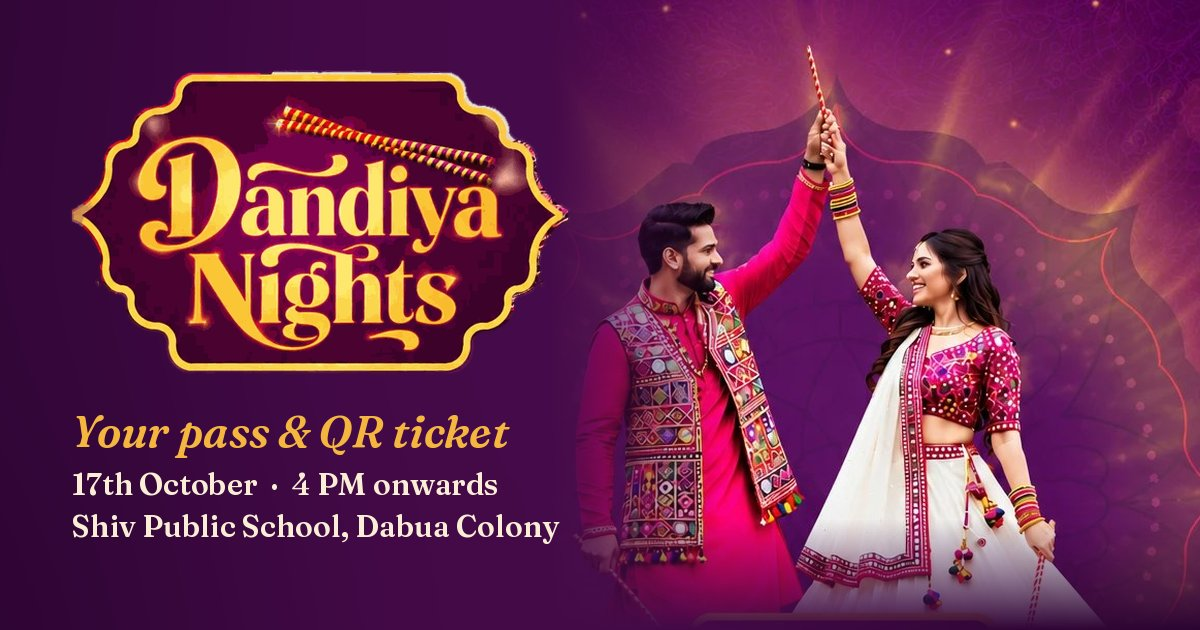
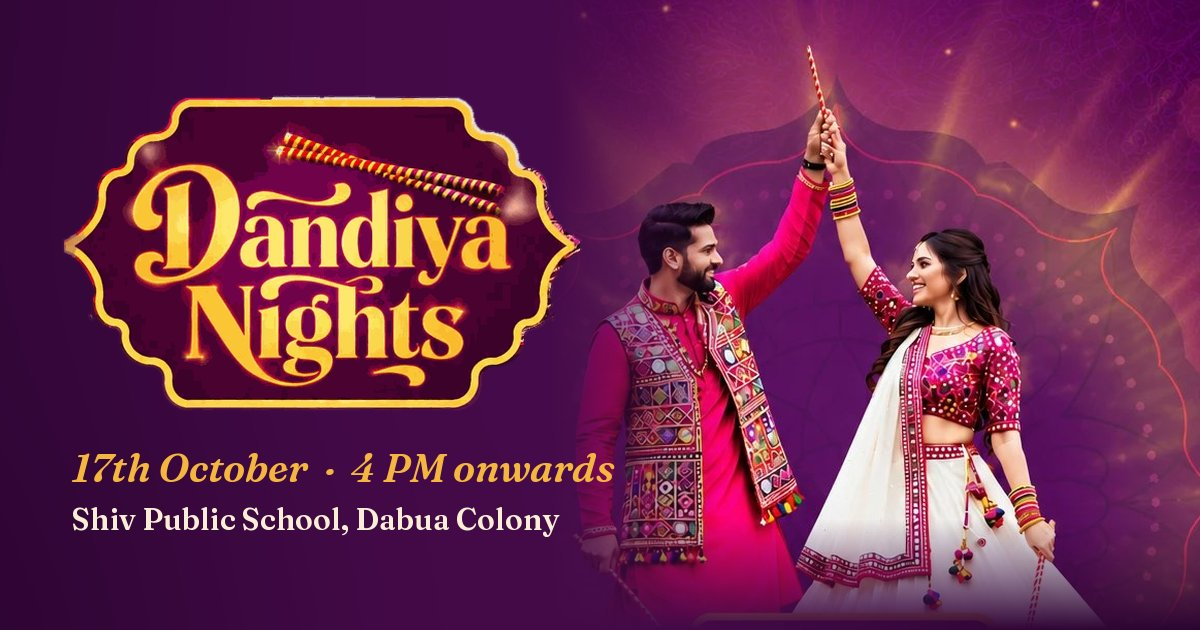
General link preview text (no pass/ticket wording)
og:title 'Dandiya Nights', description with date and venue only; default
preview image without 'Your pass & QR ticket'; WhatsApp link uses ?v=2.

Claude-Session: https://claude.ai/code/session_014oKpmPaWiJA2Ys3yn9gRho

Changed region(s): [[0.0308, 0.0905, 0.5242, 0.8746]]

diff --git a/public/index.html b/public/index.html
@@ -6,18 +6,18 @@
 <title>Dandiya Nights</title>
 <!-- Link preview (WhatsApp, Instagram, Facebook...). Crawlers do not run JS, so these are fixed text.
      The image is served by the admin site: the one uploaded in Admin > Event, else assets/og-image.jpg. -->
-<meta name="description" content="Book your passes and open your QR ticket. 17th October, 4 PM onwards, Shiv Public School, Dabua Colony.">
+<meta name="description" content="17th October, 4 PM onwards · Shiv Public School, Dabua Colony">
 <meta property="og:type" content="website">
 <meta property="og:site_name" content="Dandiya Nights">
-<meta property="og:title" content="Dandiya Nights · Your pass">
-<meta property="og:description" content="Open your QR ticket. 17th October, 4 PM onwards · Shiv Public School, Dabua Colony">
+<meta property="og:title" content="Dandiya Nights">
+<meta property="og:description" content="17th October, 4 PM onwards · Shiv Public School, Dabua Colony">
 <meta property="og:url" content="https://spsevent.vercel.app/">
-<meta property="og:image" content="https://spseventadmin.vercel.app/api/og-image?v=2">
-<meta property="og:image:secure_url" content="https://spseventadmin.vercel.app/api/og-image?v=2">
+<meta property="og:image" content="https://spseventadmin.vercel.app/api/og-image?v=3">
+<meta property="og:image:secure_url" content="https://spseventadmin.vercel.app/api/og-image?v=3">
 <meta property="og:image:type" content="image/jpeg">
 <meta property="og:image:width" content="1200">
 <meta property="og:image:height" content="630">
-<meta property="og:image:alt" content="Dandiya Nights: your pass and QR ticket">
+<meta property="og:image:alt" content="Dandiya Nights">
 <meta name="twitter:card" content="summary_large_image">
 <meta name="theme-color" content="#1f0823">
 <link rel="preconnect" href="https://fonts.googleapis.com">

diff --git a/admin/index.html b/admin/index.html
@@ -440,7 +440,7 @@ function waNumber(phone) {
 }
 function waLink(o, label) {
   var n = waNumber(o.phone); if (!n || !o.token) return '';
-  var s = A.settings || {}, link = PUBLIC_SITE + '/?pass=1#/order/' + o.token;   // ?pass=1: a fresh WhatsApp link preview (image card)
+  var s = A.settings || {}, link = PUBLIC_SITE + '/?v=2#/order/' + o.token;   // ?v=N: makes WhatsApp fetch a fresh link preview
   var msg = 'Hi ' + o.buyer_name + ', your pass for ' + (s.name || 'the event') + ' (' + o.order_no + ') is ready:\n' + link +
     '\n\nShow the QR code at the gate.' + (s.date_text ? '\n' + s.date_text : '') + (s.venue ? '\n' + s.venue : '');
   return '<a class="b wa" href="https://wa.me/' + n + '?text=' + encodeURIComponent(msg) + '" target="_blank" rel="noopener">' + (label || 'WhatsApp pass') + '</a>';
